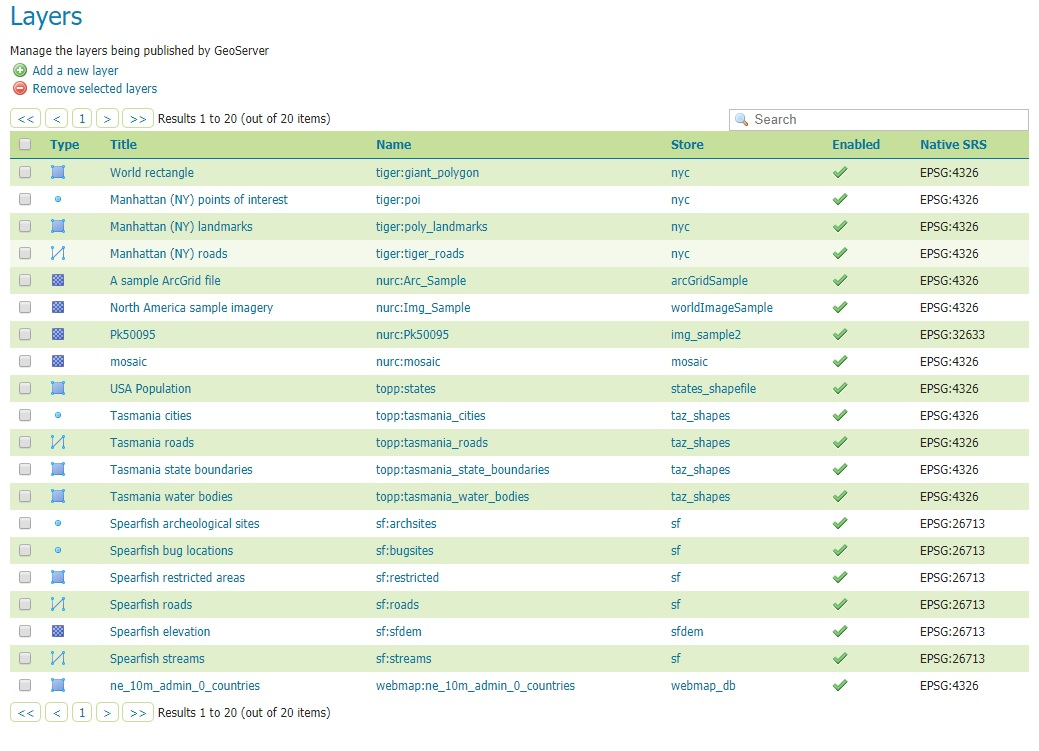
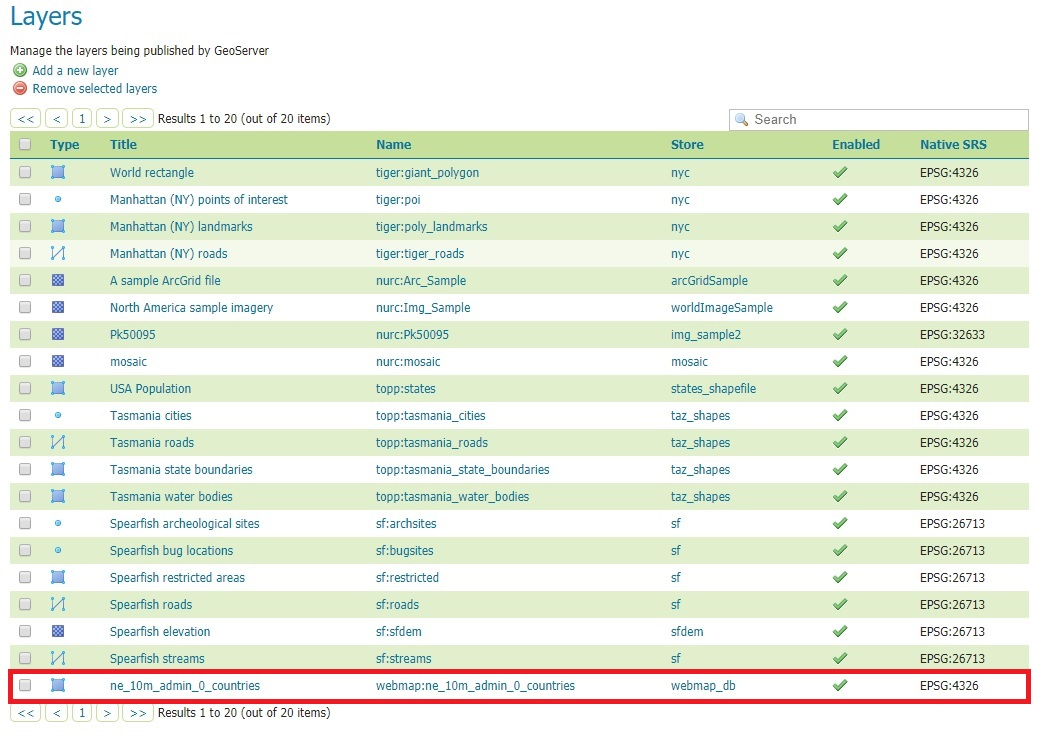
Improving Part 1 and 4

Changed region(s): [[0.0, 0.8881, 1.0, 0.9494]]

diff --git a/fedora-geostack-part-4-postgis.md b/fedora-geostack-part-4-postgis.md
@@ -408,40 +408,83 @@ Setelah proses instalasi PostgreSQL (dan PostGIS, PgRouting, dll.) selesai dilak
   
   9.2. _Create **Workspace**_.
   
+  Pada bagian menu utama, (**1**) klik **Workspaces**, sehingga tampilan _list_ seluruh _workspace_ yang ada muncul, dan (**2**) klik **Add new workspace**.
+  
   ![GeoServer WMS/WFS](./img/geoserver-01-create-workspace.jpg)
+  
+  Pada tampilan **New Workspace**, isi **Name**: **webmap**, dan **Namespace URI**: **http://webmap.mysite.com/webmap**. Sebagai catatan, nama _workspace_ hanya dibatasi hingga **10 karakter** saja oleh GeoServer-nya.
   
   ![GeoServer WMS/WFS](./img/geoserver-02-new-workspace.jpg)
   
+  Setelah Anda klik **Submit**, maka _workspace_ baru (webmap) akan muncul/masuk dalam list _workspace_. Tapi _by default_, _workspace_ ini (webmap) masih _disabled_ dan harus di-_enable_ dulu, serta seluruh _services_ nya (WMS, WFS, WMTS, dll.) diaktifkan. Untuk melaksanakannya, Anda harus mengedit _workspace_-nya. Klik pada _workspace_ yang akan diedit (_box_ merah pada gambar berikut):
+  
   ![GeoServer WMS/WFS](./img/geoserver-03-list-workspace.jpg)
+  
+  Pada bagian **Settings**, _checkbox_ berlabel **Enabled** di-_check_. Dan pada bagian **Services**, _check_ (yang berarti aktifkan _services_-nya) seluruh _checkboxes_ untuk **WMS**, **WMTS**, **WFS** dan **WCS**. _Scroll_ ke bawah hingga akhir halaman, dan klik _button_ **Save**.
   
   ![GeoServer WMS/WFS](./img/geoserver-04-edit-workspace.jpg)
   
+  Berikutnya, **hubungkan** _workspace_ yang telah kita buat tersebut (webmap) dengan **PostgreSQL/PostGIS**-nya. Klik menu **Stores**, dan setelah muncul tampilan **Stores**, (**2**) klik pada **Add new Store**.
+  
   ![GeoServer WMS/WFS](./img/geoserver-05-create-store.jpg)
+  
+  Pada tampilan **New data source**, klik pada **PostGIS - PostGIS Database**.
   
   ![GeoServer WMS/WFS](./img/geoserver-06-available-data-store.jpg)
   
+  Berikutnya akan muncul tampilan **New Vector Data Source**, seperti pada gambar berikut:
+  
   ![GeoServer WMS/WFS](./img/geoserver-07-postgis-connection.jpg)
+  
+  > Pada bagian **Basic Store Info**, pilih _workspace_ yang akan dihubungkan dengan _database_ melalui pilihan _drop-down_ yang tersedia. Pada contoh ini kita pilih **webmap**. Kemudian untuk **Data Source Name** (DSN), kita beri nama saja dengan nama _database_-nya, yaitu **webmap_db**. FYI, tuliskan nama DSN **tanpa spasi**. Untuk **Description**, isikan dengan deskripsi DSN-nya. Di sini boleh ada spasi, tapi ya jangan panjang-panjang. Akhirnya, pastikan _checkbox_ **Enabled**-nya di-_check_.
+  
+  > Pada bagian **Connection Parameters**, isi **host**: **localhost** (ingat, GeoServer dan PostgreSQL/PostGIS ada dalam _host_ yang sama. Jadi aksesnya tetap ke _localhost_), **port**: **5432**, **database**: **webmap_db**, **user**: **pgdbuser**, **password**: password Anda, dan _checkbox_ **Expose primary keys**-nya di-_check_.
+  
+  Berikutnya, _scroll_ ke bawah, dan klik **Save**, maka berikutnya yang muncul adalah tampilan New Layer. Klik **Publish**, seperti pada gambar:
   
   ![GeoServer WMS/WFS](./img/geoserver-08-new-layer.jpg)
   
+  Proses selanjutnya adalah **Edit Layer**. Fokus ke _tab_ **Data**. Untuk _section_ **Basic Resource Info**, biarkan apa-adanya saja. **Name** dan **Title**: **ne_10m_admin_0_countries**. Pastikan _checkboxes_ **Enabled** dan **Advertised** dalam keadaan di-_check_.
+  
   ![GeoServer WMS/WFS](./img/geoserver-09-data.jpg)
+  
+  Kemudian pada bagian **Coordinate Reference Systems**, pada _drop-down_ pilihan **SRS handling**, pilih **Keep native**. Ini berarti antara **Native SRS** dan **Declared SRS**-nya sama, yaitu **EPSG 4326**.
   
   ![GeoServer WMS/WFS](./img/geoserver-10-srs-handling.jpg)
   
+  Di bawah bagian **Coordinate Reference Systems**, berikutnya adalah **Bounding Boxes**. Klik pada **Compute from data** untuk mendapatkan **Native Bounding Box**-nya, dan diikuti klik pada **Compute from native bounds** untuk mendapatkan **Lat/Lon Bounding Box**-nya (lihat _box_ merah pada gambar di bawah ini),
+  
   ![GeoServer WMS/WFS](./img/geoserver-11-bbox.jpg)
+  
+  sehingga seluruh _field_ **Min X**, **Min Y**, **Max X** dan **Max Y** baik untuk **Native Bounding Box** dan **Lat/Lon Bounding Box** terisi semua.
   
   ![GeoServer WMS/WFS](./img/geoserver-12-computed-bbox.jpg)
   
+  Beralih ke _tab_ **Publishing**, _checkbox_ **Queryable** di-_check_. Untuk pilihan **Opaque** nantinya bisa Anda pilih jika diperlukan.
+  
   ![GeoServer WMS/WFS](./img/geoserver-13-publishing.jpg)
+  
+  Terakhir, scroll ke bawah, dan klik Save.
   
   ![GeoServer WMS/WFS](./img/geoserver-14-save.jpg)
   
+  Tampilan berikutnya yang bakal muncul adalah **Layers**, dimana WMS _layer_ yang sudah di-_create_ tadi sudah muncul dalam daftar _layer_ yang aktif (lihat _box_ merah).
+  
   ![GeoServer WMS/WFS](./img/geoserver-15-layers.jpg)
+  
+  Untuk melihat/_preview_ _layer_-nya, masuk ke menu **Layer Preview** pada bagian/kelompok menu **Data**. Daftar _layer_ yang bisa di-_preview_ akan muncul, dan pada _layer_ yang akan kita _preview_ (**_ne_10m_admin_0_countries_**), klik pada _link_ **Openlayers** (lihat _box_ merah pada gambar berikut).
   
   ![GeoServer WMS/WFS](./img/geoserver-16-openlayers.jpg)
   
+  > _By default_, GeoServer menggunakan library [**OpenLayers**](https://openlayers.org) pada _preview webmap_-nya.
+  
+  _Preview_ dari WMS/WFS _layer_ Anda akan tampil di _tab_ baru browser, dan jika kita meng-klik pada salah-satu _polygon_, maka pada bagian bawah tampilan petanya akan muncul seluruh _attributes_ yang persis-sama dengan _fields_ di _table_ PostgreSQL, seperti pada gambar berikut:
+  
   ![GeoServer WMS/WFS](./img/geoserver-17-preview.jpg)
   
+  Hingga tahap ini, **WMS/WFS _services_** pada **GeoServer** Anda yang terhubung dengan **PostgreSQL/PostGIS** sudah siap diakses dengan menggunakan aplikasi lain, seperti **Quantum GIS** atau langsung ditampilkan dalam sebuah _webmap_ dengan menggunakan JavaScript _library_ seperti [**OpenLayers**](https://openlayers.org) atau [**Leaflet.JS**](https://leafletjs.com/).
+  
+##### 10. WMS/WFS Layer di Quantum GIS.
 
 > Instalasi dan konfigurasi sebuah _tech-stack_ adalah sebuah _craftmanship_ -- semakin mendalam Anda menggali bagaimana sebuah komponen bekerja dalam ekosistemnya, _in-and-out_, maka semakin paham pula Anda terhadap seluruh ketidaksempurnaan yang pernah Anda jumpai dalam hidup.
 
